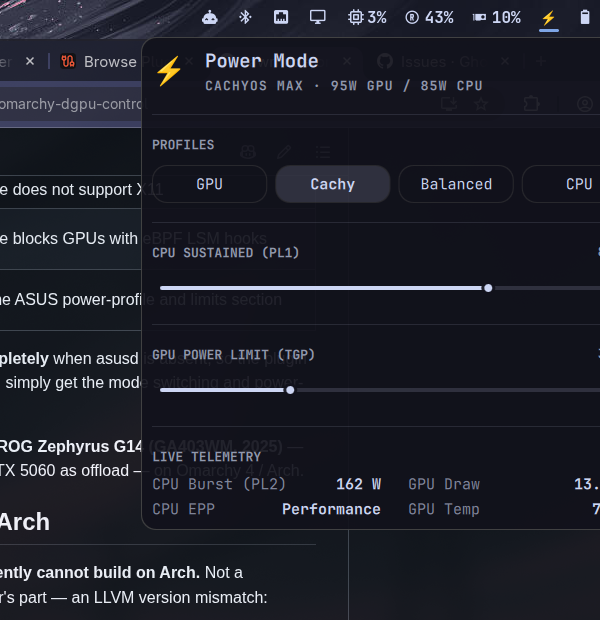
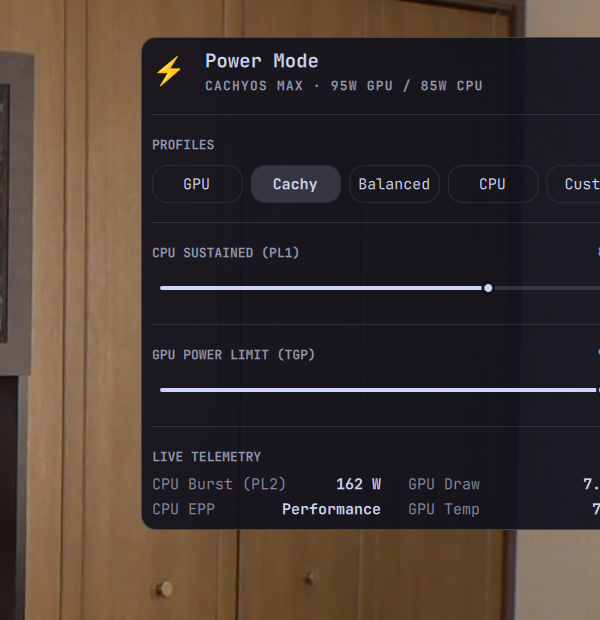
feat(ui): add dedicated Custom profile pill, instant slider feedback, and reliable mode transitions

diff --git a/PowerMode.qml b/PowerMode.qml
@@ -23,9 +23,8 @@ Panel {
 
   property int previewCpuPL1: -1
   property int previewGpuLimit: -1
-
-  readonly property var profileKeys: ["gpu", "cachy", "balanced", "cpu"]
-  readonly property var profileLabels: ["GPU", "Cachy", "Balanced", "CPU"]
+  readonly property var profileKeys: ["gpu", "cachy", "balanced", "cpu", "custom"]
+  readonly property var profileLabels: ["GPU", "Cachy", "Balanced", "CPU", "Custom"]
 
   implicitWidth: button.implicitWidth
   implicitHeight: button.implicitHeight
@@ -51,6 +50,12 @@ Panel {
     if (!stateProc.running) stateProc.running = true
   }
 
+  function runAction(args) {
+    if (actionProc.running) actionProc.running = false
+    actionProc.command = args
+    actionProc.running = true
+  }
+
   function setProfile(key) {
     previewCpuPL1 = -1
     previewGpuLimit = -1
@@ -58,23 +63,27 @@ Panel {
     if (key === "gpu") {
       root.cpuPL1 = 35
       root.gpuLimit = 95
+      runAction(["power-mode", "--gpu"])
     } else if (key === "cachy") {
       root.cpuPL1 = 85
       root.gpuLimit = 95
+      runAction(["power-mode", "--cachy"])
     } else if (key === "balanced") {
       root.cpuPL1 = 25
       root.gpuLimit = 60
+      runAction(["power-mode", "--balanced"])
     } else if (key === "cpu") {
       root.cpuPL1 = 85
       root.gpuLimit = 40
+      runAction(["power-mode", "--cpu"])
+    } else if (key === "custom") {
+      runAction(["power-mode", "--custom", String(root.cpuPL1), String(root.gpuLimit)])
     }
-    actionProc.command = ["power-mode", "--" + key]
-    if (!actionProc.running) actionProc.running = true
   }
 
   function applyCustomLimits(cpu, gpu) {
-    actionProc.command = ["power-mode", "--custom", String(cpu), String(gpu)]
-    if (!actionProc.running) actionProc.running = true
+    root.activeProfile = "custom"
+    runAction(["power-mode", "--custom", String(cpu), String(gpu)])
   }
 
   IpcHandler {
@@ -89,14 +98,18 @@ Panel {
 
   onOpenedChanged: {
     if (opened) {
-      refresh()
       previewCpuPL1 = -1
       previewGpuLimit = -1
+      refresh()
+      stateTimer.restart()
+    } else {
+      stateTimer.stop()
     }
   }
 
   Timer {
-    interval: 3000
+    id: stateTimer
+    interval: 2500
     running: root.opened
     repeat: true
     onTriggered: root.refresh()
@@ -110,17 +123,19 @@ Panel {
       onStreamFinished: {
         try {
           var d = JSON.parse(text)
-          root.activeProfile = d.active_profile || "custom"
-          root.profileName = d.profile_name || "Custom"
-          root.cpuPL1 = parseInt(d.cpu_pl1_w) || 35
-          root.cpuPL2 = parseInt(d.cpu_pl2_w) || 55
-          root.cpuEPP = d.cpu_epp || "balance_performance"
-          root.platformProfile = d.platform_profile || "performance"
+          if (root.previewCpuPL1 < 0 && root.previewGpuLimit < 0) {
+            root.activeProfile = d.active_profile || "custom"
+            root.profileName = d.profile_name || "Custom"
+            root.cpuPL1 = parseInt(d.cpu_pl1_w) || 35
+            root.cpuPL2 = parseInt(d.cpu_pl2_w) || 55
+            root.cpuEPP = d.cpu_epp || "balance_performance"
+            root.platformProfile = d.platform_profile || "performance"
+
+            var gLim = String(d.gpu_power_limit || "").replace("W", "").trim()
+            root.gpuLimit = parseInt(gLim) || 60
+          }
           root.gpuDraw = d.gpu_power_draw || "0 W"
           root.gpuTemp = d.gpu_temp || "0 °C"
-
-          var gLim = String(d.gpu_power_limit || "").replace("W", "").trim()
-          root.gpuLimit = parseInt(gLim) || 60
         } catch (e) {}
       }
     }
@@ -128,12 +143,21 @@ Panel {
 
   Process {
     id: actionProc
-    onExited: root.refresh()
+    onExited: {
+      actionTimer.restart()
+    }
+  }
+
+  Timer {
+    id: actionTimer
+    interval: 400
+    repeat: false
+    onTriggered: root.refresh()
   }
 
   Timer {
     id: applyDebounce
-    interval: 350
+    interval: 300
     repeat: false
     onTriggered: {
       var c = root.displayCpuPL1()
@@ -324,9 +348,11 @@ Panel {
               value: root.displayCpuPL1()
               onMoved: function(v) {
                 root.previewCpuPL1 = Math.round(v)
+                root.activeProfile = "custom"
               }
               onReleased: function(v) {
                 root.previewCpuPL1 = Math.round(v)
+                root.activeProfile = "custom"
                 applyDebounce.restart()
               }
             }
@@ -388,9 +414,11 @@ Panel {
               value: root.displayGpuLimit()
               onMoved: function(v) {
                 root.previewGpuLimit = Math.round(v)
+                root.activeProfile = "custom"
               }
               onReleased: function(v) {
                 root.previewGpuLimit = Math.round(v)
+                root.activeProfile = "custom"
                 applyDebounce.restart()
               }
             }

diff --git a/extensions/omarchy-quickshell/PowerMode.qml b/extensions/omarchy-quickshell/PowerMode.qml
@@ -23,9 +23,8 @@ Panel {
 
   property int previewCpuPL1: -1
   property int previewGpuLimit: -1
-
-  readonly property var profileKeys: ["gpu", "cachy", "balanced", "cpu"]
-  readonly property var profileLabels: ["GPU", "Cachy", "Balanced", "CPU"]
+  readonly property var profileKeys: ["gpu", "cachy", "balanced", "cpu", "custom"]
+  readonly property var profileLabels: ["GPU", "Cachy", "Balanced", "CPU", "Custom"]
 
   implicitWidth: button.implicitWidth
   implicitHeight: button.implicitHeight
@@ -51,6 +50,12 @@ Panel {
     if (!stateProc.running) stateProc.running = true
   }
 
+  function runAction(args) {
+    if (actionProc.running) actionProc.running = false
+    actionProc.command = args
+    actionProc.running = true
+  }
+
   function setProfile(key) {
     previewCpuPL1 = -1
     previewGpuLimit = -1
@@ -58,23 +63,27 @@ Panel {
     if (key === "gpu") {
       root.cpuPL1 = 35
       root.gpuLimit = 95
+      runAction(["power-mode", "--gpu"])
     } else if (key === "cachy") {
       root.cpuPL1 = 85
       root.gpuLimit = 95
+      runAction(["power-mode", "--cachy"])
     } else if (key === "balanced") {
       root.cpuPL1 = 25
       root.gpuLimit = 60
+      runAction(["power-mode", "--balanced"])
     } else if (key === "cpu") {
       root.cpuPL1 = 85
       root.gpuLimit = 40
+      runAction(["power-mode", "--cpu"])
+    } else if (key === "custom") {
+      runAction(["power-mode", "--custom", String(root.cpuPL1), String(root.gpuLimit)])
     }
-    actionProc.command = ["power-mode", "--" + key]
-    if (!actionProc.running) actionProc.running = true
   }
 
   function applyCustomLimits(cpu, gpu) {
-    actionProc.command = ["power-mode", "--custom", String(cpu), String(gpu)]
-    if (!actionProc.running) actionProc.running = true
+    root.activeProfile = "custom"
+    runAction(["power-mode", "--custom", String(cpu), String(gpu)])
   }
 
   IpcHandler {
@@ -89,14 +98,18 @@ Panel {
 
   onOpenedChanged: {
     if (opened) {
-      refresh()
       previewCpuPL1 = -1
       previewGpuLimit = -1
+      refresh()
+      stateTimer.restart()
+    } else {
+      stateTimer.stop()
     }
   }
 
   Timer {
-    interval: 3000
+    id: stateTimer
+    interval: 2500
     running: root.opened
     repeat: true
     onTriggered: root.refresh()
@@ -110,17 +123,19 @@ Panel {
       onStreamFinished: {
         try {
           var d = JSON.parse(text)
-          root.activeProfile = d.active_profile || "custom"
-          root.profileName = d.profile_name || "Custom"
-          root.cpuPL1 = parseInt(d.cpu_pl1_w) || 35
-          root.cpuPL2 = parseInt(d.cpu_pl2_w) || 55
-          root.cpuEPP = d.cpu_epp || "balance_performance"
-          root.platformProfile = d.platform_profile || "performance"
+          if (root.previewCpuPL1 < 0 && root.previewGpuLimit < 0) {
+            root.activeProfile = d.active_profile || "custom"
+            root.profileName = d.profile_name || "Custom"
+            root.cpuPL1 = parseInt(d.cpu_pl1_w) || 35
+            root.cpuPL2 = parseInt(d.cpu_pl2_w) || 55
+            root.cpuEPP = d.cpu_epp || "balance_performance"
+            root.platformProfile = d.platform_profile || "performance"
+
+            var gLim = String(d.gpu_power_limit || "").replace("W", "").trim()
+            root.gpuLimit = parseInt(gLim) || 60
+          }
           root.gpuDraw = d.gpu_power_draw || "0 W"
           root.gpuTemp = d.gpu_temp || "0 °C"
-
-          var gLim = String(d.gpu_power_limit || "").replace("W", "").trim()
-          root.gpuLimit = parseInt(gLim) || 60
         } catch (e) {}
       }
     }
@@ -128,12 +143,21 @@ Panel {
 
   Process {
     id: actionProc
-    onExited: root.refresh()
+    onExited: {
+      actionTimer.restart()
+    }
+  }
+
+  Timer {
+    id: actionTimer
+    interval: 400
+    repeat: false
+    onTriggered: root.refresh()
   }
 
   Timer {
     id: applyDebounce
-    interval: 350
+    interval: 300
     repeat: false
     onTriggered: {
       var c = root.displayCpuPL1()
@@ -324,9 +348,11 @@ Panel {
               value: root.displayCpuPL1()
               onMoved: function(v) {
                 root.previewCpuPL1 = Math.round(v)
+                root.activeProfile = "custom"
               }
               onReleased: function(v) {
                 root.previewCpuPL1 = Math.round(v)
+                root.activeProfile = "custom"
                 applyDebounce.restart()
               }
             }
@@ -388,9 +414,11 @@ Panel {
               value: root.displayGpuLimit()
               onMoved: function(v) {
                 root.previewGpuLimit = Math.round(v)
+                root.activeProfile = "custom"
               }
               onReleased: function(v) {
                 root.previewGpuLimit = Math.round(v)
+                root.activeProfile = "custom"
                 applyDebounce.restart()
               }
             }
